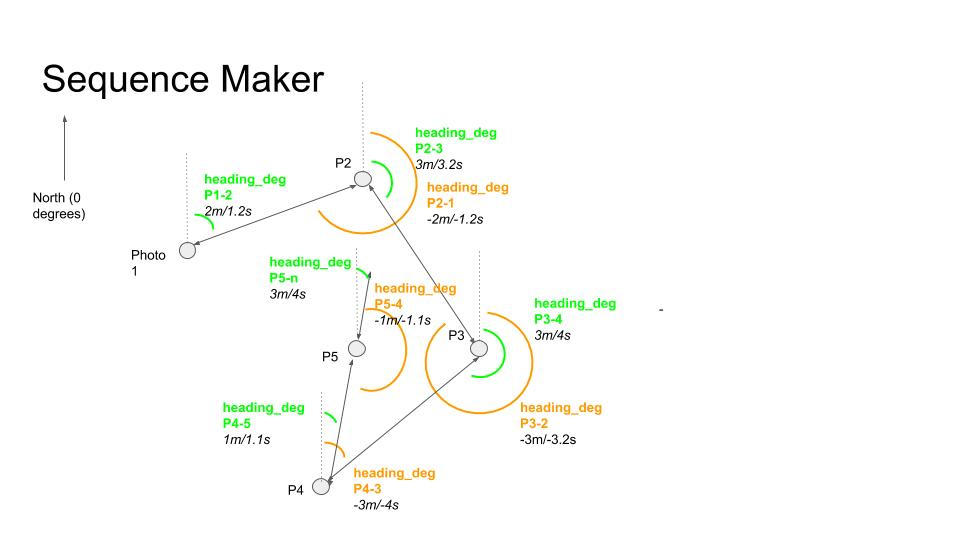
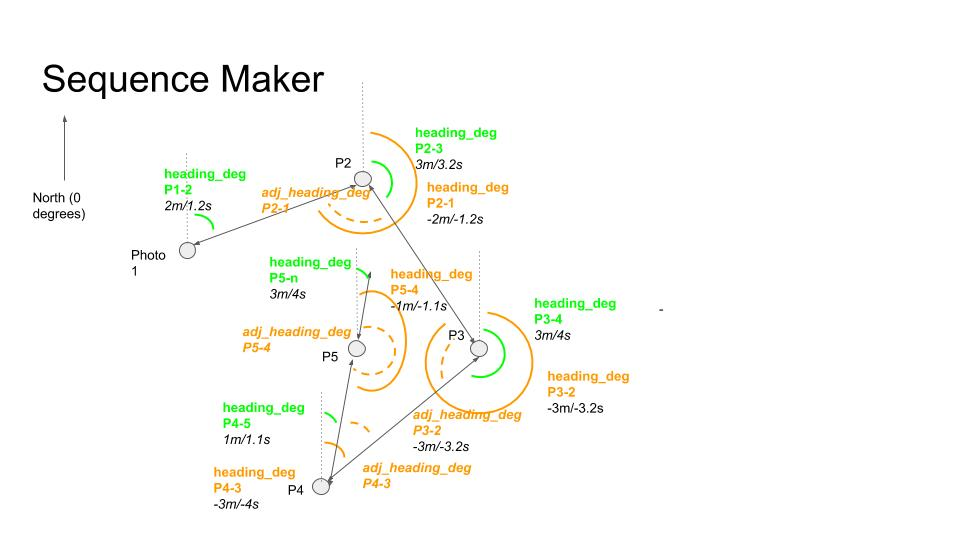
adding adjusted headings

diff --git a/README.md b/README.md
@@ -65,7 +65,7 @@ The output calculations allow us to write the following JSON object information 
 		"earliest_time": # earliest time GPSDateTime (if connection method gps / filename) or originalDateTime (if connection originalDateTime) value for photo in sequence,
 		"latest_time": # latest time GPSDateTime (if connection method gps / filename) or originalDateTime (if connection originalDateTime) value for photo in sequence,
 		"duration_sec: # sequence_latest_time - sequence_earliest_time,
-		"average_speed": # sequence_distance_km / sequence_duration_sec
+		"average_speed_kmh": # sequence_distance_km / sequence_duration_sec
 		"uploader_sequence_name": # not currently used
 		"uploader_sequence_description": # not currently used
 		"uploader_transport_type": # not currently used
@@ -103,18 +103,39 @@ The output calculations allow us to write the following JSON object information 
 				"time_sec": # reported in seconds (can be negative, if source photo taken after destination photo),
 				"speed_kmh": # reported in kilometers per hour (can be negative, if source photo taken after destination photo),
 				"heading_deg": # reported in degrees between 0 and 359.99 degrees,
-				"pitch_deg": # reported in degrees between -90 to 90 degrees
-			},
+				"adj_heading_deg":  # reported in degrees between 0 and 359.99 degrees. only calculated for photos with negative distance_mtrs (and not for last photo in sequence). calculated using "positive connection heading_deg - negative connection (this connection) heading_deg". calculation can return negative value, in which case should be converted to positive number.
+				"pitch_deg": # reported in degrees between -90 to 90 degrees,
+		},
+			"[CONNECTION_2_PHOTO_UUID]": {
+			}
+		}
+
+} 
+```
+
+First and last photos in seqence always have 1 connection (either forward and back). All other photo connections will have 2 connections (both forward and back).
+
+```
+		"connections": {
 			[51993d0d-af02-11ea-922c-cd0ce84081fa]: {
 				"distance_mtrs": 12.666786535950974,
 				"elevation_mtrs": 0.43100000000004,
 				"time_sec": 10,
 				"speed_kmh": 6.666786535950974,
 				"heading_deg": 178.76974201469432,
+				"adj_heading_deg": ,
 				"pitch_deg": 0.03402599378909342
-		}
-
-} 
+				},
+			[748495d0d-af03-19fa-048a-cf8ce74089ui]: {
+				"distance_mtrs": -22.039488888888888,
+				"elevation_mtrs": -0.73700000000002,
+				"time_sec": -10,
+				"speed_kmh": -6.546786535950975,
+				"heading_deg": 350.88884201469438,
+				"adj_heading_deg": "172.1191",
+				"pitch_deg": -0.05502599378909355
+				}
+			}
 ```
 
 The script will also output a single JSON document (SEQUENCE_ID.json) containing sequence information, and details of all photos in sequence.
@@ -134,12 +155,6 @@ If you're shooting at a low frame rate, sharply changing direction, or holding y
 This script allows you to discard images that don't match a certain criteria (for example, you want to space them a minimum of 10 meters apart) and will lead to a larger level of inaccuracy for estimations.
 
 In cases where more images are discarded the source and destination photo used for calculations might therefore be very far apart, and thus less likely for the source photo to be facing the destination photo.
-
-**Final photo**
-
-The last photo in the timelapse (sequence) has no subsequent photo. Therefore, as a simple solution the last photo simply inherits the values of the previous photo in the sequence.
-
-This 'best-guess' will not be suitable when precise accuracy is needed.
 
 **Missing GPS**
 
@@ -301,4 +316,4 @@ We offer community support for all our software on our Campfire forum. [Ask a qu
 
 ## License
 
-Sequence Maker is licensed under a [GNU AGPLv3 License](https://github.com/trek-view/sequence-maker/blob/master/LICENSE.txt).
+Sequence Maker is licensed under a [GNU AGPLv3 License](/LICENSE.txt).
